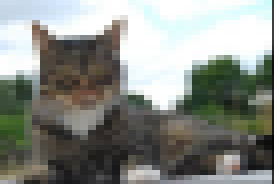
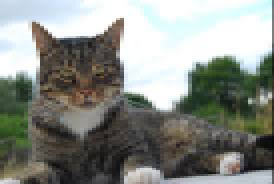
Added generated picture size change

diff --git a/Pixelizer/pixelizer.py b/Pixelizer/pixelizer.py
@@ -24,16 +24,21 @@ class Pixelizer:
     poster_image_names = None
     img_width = None
     img_height = None
+    target_img_width = None
+    target_img_height = None
     pix_width = None
     pix_height = None
     old_pix_width = 0
     old_pix_height = 0
 
-    def __init__(self, input_file, output_file, poster_cols, output_scale, output_scale_to=-1, \
+    def __init__(self, input_file, output_file, target_img_width, target_img_height, \
+                 poster_cols, output_scale, output_scale_to=-1, \
                  delta_scale=1):
         # initialize variables
         self.input_file = input_file
         self.output_file = output_file
+        self.target_img_width = target_img_width
+        self.target_img_height = target_img_height
         self.poster_cols = poster_cols
         self.output_scale_from = output_scale
         self.delta_scale = delta_scale
@@ -45,7 +50,13 @@ class Pixelizer:
         
         # Read source image    
         self.image = Image.open(self.input_file)            
-        self.img_width, self.img_height = self.image.size[0], self.image.size[1] 
+        self.img_width, self.img_height = self.image.size[0], self.image.size[1]
+        
+        # Determine target image size
+        if self.target_img_width == 0:
+            self.target_img_width = self.img_width
+        if self.target_img_height == 0:
+            self.target_img_height = self.img_height
 
         
     def execute(self): 
@@ -76,11 +87,11 @@ class Pixelizer:
     def create_poster(self):
         # Create empty poster that contains all generated images
         # and original image at the end
-        poster_width = self.img_width * self.poster_cols
+        poster_width = self.target_img_width * self.poster_cols
         height_factor = (len(self.poster_image_names) + 1) / self.poster_cols
         if (len(self.poster_image_names) + 1) % self.poster_cols > 0:
             height_factor += 1
-        poster_height = self.img_height * height_factor 
+        poster_height = self.target_img_height * height_factor 
         poster_image = Image.new('RGB', (poster_width, poster_height))
         
         # Fill poster with previously created pictures
@@ -89,8 +100,8 @@ class Pixelizer:
         print("Creating post with width " + str(poster_width) + " and height " + str(poster_height) + ".")
         for name in self.poster_image_names:
             tile_image = Image.open(name)
-            xpos_tile = col * self.img_width
-            ypos_tile = row * self.img_height
+            xpos_tile = col * self.target_img_width
+            ypos_tile = row * self.target_img_height
             poster_image.paste(tile_image, (xpos_tile, ypos_tile))
             tile_image.close()
             col += 1
@@ -99,13 +110,13 @@ class Pixelizer:
                 row +=1
                 
         # Add original picture at end of poster
-        xpos_tile = col * self.img_width
-        ypos_tile = row * self.img_height
+        xpos_tile = col * self.target_img_width
+        ypos_tile = row * self.target_img_height
         orig_image = Image.open(self.input_file)
-        poster_image.paste(orig_image, (xpos_tile, ypos_tile))
+        resized_orig_image = orig_image.resize((self.target_img_width, self.target_img_height), Image.ANTIALIAS)
+        poster_image.paste(resized_orig_image, (xpos_tile, ypos_tile))
         poster_image.save(self.output_file)
         print("Finished creating poster.")
-        
     
     def pixelize(self, ndx):
         # Calculate pixel size
@@ -132,9 +143,9 @@ class Pixelizer:
                 x_pos += self.pix_width
             x_pos = 0
             y_pos += self.pix_height
-        self.save_new_image(new_image, ndx)
+        resized_image = new_image.resize((self.target_img_width, self.target_img_height), Image.ANTIALIAS)
+        self.save_new_image(resized_image, ndx)
 
-    
     def save_new_image(self, image, ndx):
         # Save single image
         output_file = (str(ndx) + ".").join(self.output_file.rsplit('.', 1))
@@ -164,6 +175,7 @@ class Pixelizer:
     *** --file: Input file                             ***
     *** --scale, to_scale: Pixel creation ratio        ***
     *** --delta_scale: Scale change per iteration      ***
+    *** --img_width, img_height: Generated image size ***
     *** --poster_cols: Number of poster picture cols   ***
     *** --out: Output file                             ***            
     ****************************************************** '''
@@ -175,21 +187,30 @@ def main():
     parser.add_argument('--file', dest='imgFile', required=True)
     parser.add_argument('--scale', dest='scale', required=True)
     parser.add_argument('--to_scale', dest='to_scale', required=False)
-    parser.add_argument('--delta_scale', dest='delta_scale', required=False) 
+    parser.add_argument('--delta_scale', dest='delta_scale', required=False)
+    parser.add_argument('--img_width', dest='img_width', required=False)
+    parser.add_argument('--img_height', dest='img_height', required=False) 
     parser.add_argument('--poster_cols', dest='poster_cols', required=False)
     parser.add_argument('--out', dest='outFile', required=True)
     args = parser.parse_args() 
+    
+    img_width = 0 
+    img_height = 0
+    if args.img_width <> None:
+        img_width =  int(args.img_width)
+    if args.img_height <> None:
+        img_height = int(args.img_height)
      
     poster_cols = 0
     if args.poster_cols <> None:
         poster_cols = int(args.poster_cols)
      
     if args.to_scale == None:
-        pixelizer = Pixelizer(args.imgFile, args.outFile, poster_cols, int(args.scale))
+        pixelizer = Pixelizer(args.imgFile, args.outFile, img_width, img_height, poster_cols, int(args.scale))
     elif args.to_scale <> None and args.delta_scale == None:
-        pixelizer = Pixelizer(args.imgFile, args.outFile, poster_cols, int(args.scale), int(args.to_scale))
+        pixelizer = Pixelizer(args.imgFile, args.outFile, img_width, img_height, poster_cols, int(args.scale), int(args.to_scale))
     else:
-        pixelizer = Pixelizer(args.imgFile, args.outFile, poster_cols, int(args.scale), int(args.to_scale), \
+        pixelizer = Pixelizer(args.imgFile, args.outFile, img_width, img_height, poster_cols, int(args.scale), int(args.to_scale), \
                               int(args.delta_scale))
 
     pixelizer.execute()
